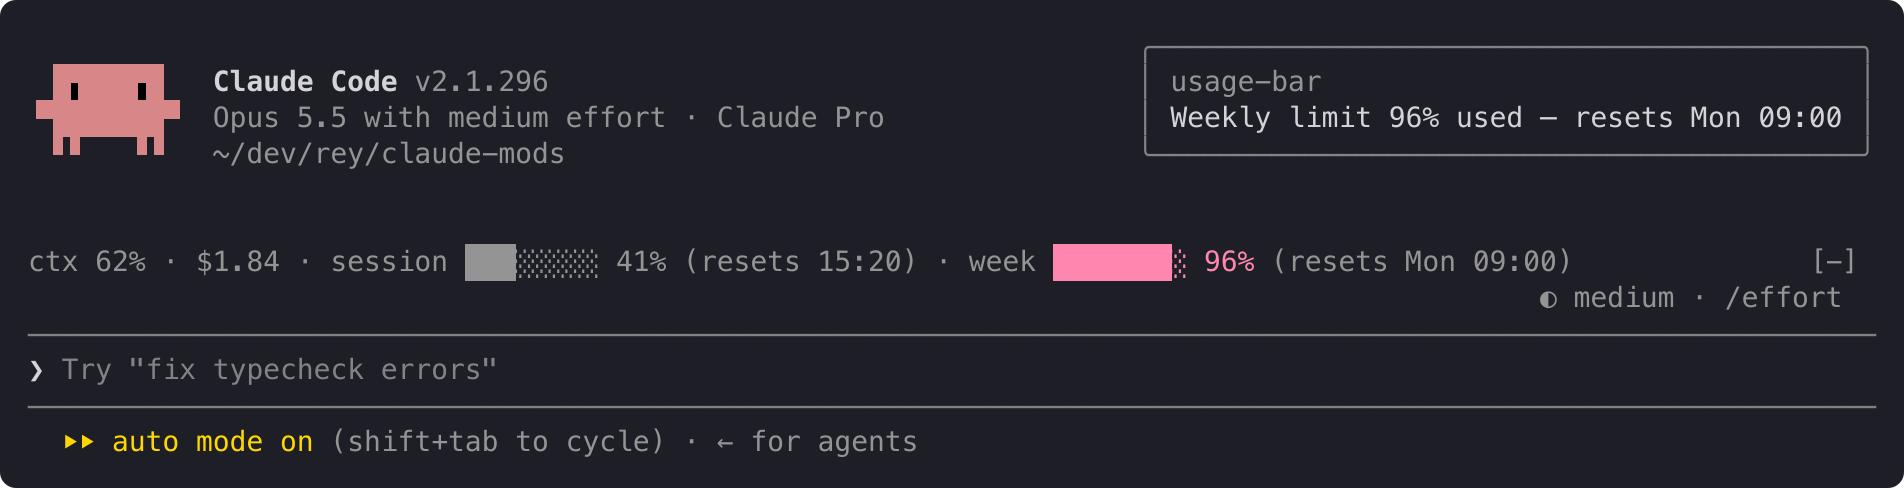
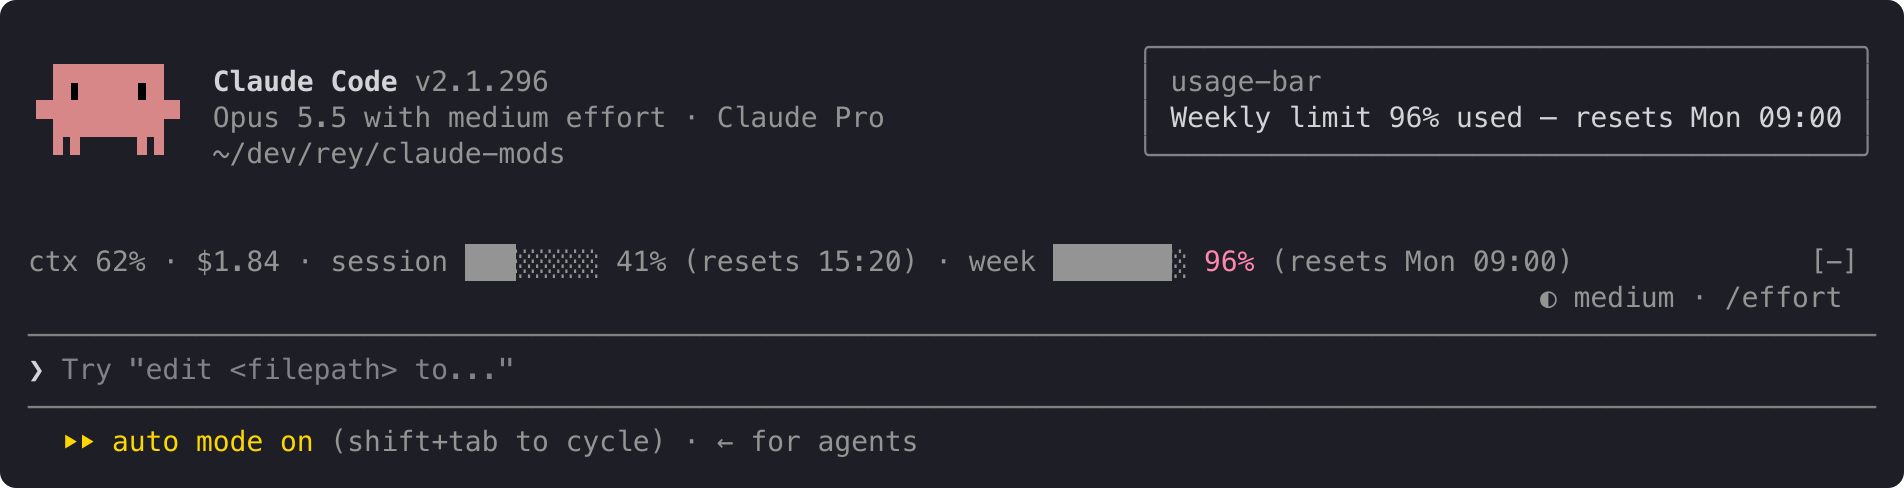
feat(usage-bar): colour the percent, not the bar
Full colour across a bar distracts; a dimmed colour renders grey in
Claude Code, and hex shades ignore the theme. Bars stay dimmed.

Changed region(s): [[0.062, 0.7377, 0.2789, 0.7992], [0.5268, 0.4918, 0.6197, 0.584]]

diff --git a/plugins/usage-bar/tests/usage-bar.test.ts b/plugins/usage-bar/tests/usage-bar.test.ts
@@ -65,11 +65,15 @@ async function mountLine($: Engine, surface: (typeof SURFACES)[number], bodyColu
 const lineText = async ($: Engine, surface: (typeof SURFACES)[number], bodyColumns?: number) =>
   (await mountLine($, surface, bodyColumns)).line
 
-// The color of the Text that shows this percent.
-async function percentColor($: Engine, surface: (typeof SURFACES)[number], percent: string) {
+// The colors of the Text that shows this percent and of the Text that shows its bar; 'missing' when no Text shows a bar.
+async function limitColors($: Engine, surface: (typeof SURFACES)[number], percent: string) {
   const { texts } = await mountLine($, surface)
+  const bar = texts.find(t => /[█░]/.test(t.text))
 
-  return texts.find(t => t.text.endsWith(` ${percent}`))?.props.color
+  return {
+    percent: texts.find(t => t.text === percent)?.props.color,
+    bar: bar ? bar.props.color : 'missing',
+  }
 }
 
 describe('line', () => {
@@ -178,14 +182,14 @@ describe('line', () => {
     }
   })
 
-  test('colorsBarAndPercent_warningFrom50AndErrorFrom95', async ($, on) => {
+  test('colorsPercentOnly_warningFrom50AndErrorFrom95', async ($, on) => {
     mock.store(on)
     recordToasts(on)
 
     for (const [percent, color] of [[49.9, undefined], [50, 'warning'], [94, 'warning'], [95, 'error']] as const) {
       await measure($, [week(percent)])
       for (const surface of SURFACES) {
-        expect(await percentColor($, surface, `${Math.floor(percent)}%`)).toBe(color)
+        expect(await limitColors($, surface, `${Math.floor(percent)}%`)).toEqual({ percent: color, bar: undefined })
       }
     }
   })

diff --git a/plugins/usage-bar/hooks/register.tsx b/plugins/usage-bar/hooks/register.tsx
@@ -25,7 +25,7 @@ const LAYOUTS: [minColumns: number, layout: Layout][] = [
 
 const BAR_CELLS = 8
 
-// A run of the line; a colored one shows a window's bar and percent.
+// A run of the line; a colored one shows a window's percent.
 type Segment = { text: string; color?: 'warning' | 'error' }
 
 // What $.store holds per window kind: the period's resetsAt and the thresholds already toasted in it.
@@ -55,11 +55,11 @@ function windowSegments(limit: LimitReading, layout: Layout): Segment[] | undefi
 
   const label = layout === 'full' ? window.label : window.letter
   const percent = `${Math.floor(limit.percentUsed)}%`
-  const shown = layout === 'full' || layout === 'short-bars' ? `${bar(limit.percentUsed)} ${percent}` : percent
+  const barText = layout === 'full' || layout === 'short-bars' ? `${bar(limit.percentUsed)} ` : ''
   const time = limit.resetsAt && layout !== 'tiny' ? resetTime(limit.resetsAt, window.showsDay) : undefined
   const resets = time === undefined ? '' : layout === 'full' ? ` (resets ${time})` : ` ↻ ${time}`
 
-  return [{ text: `${label} ` }, { text: shown, color: levelColor(limit.percentUsed) }, { text: resets }]
+  return [{ text: `${label} ${barText}` }, { text: percent, color: levelColor(limit.percentUsed) }, { text: resets }]
 }
 
 function lineSegments(r: Reading, columns: number): Segment[] {

diff --git a/docs/usage-bar.md b/docs/usage-bar.md
@@ -16,7 +16,7 @@ One line above the prompt with the session's context fill and cost, plus the pla
    - Until the first reading, show `usage: no data yet`, dimmed, so the line doesn't look missing. Not logged in, no reading comes, so it stays until `/login`.
    - Off a subscription (an API key), readings carry no limits: show `ctx` and `$` only.
    - Each window's bar has 8 cells, each 12.5%, filled rounded down.
-   - Each window's bar and percent are coloured by the theme: `warning` from 50%, `error` from 95%, matching the toasts. The rest is dimmed.
+   - Each window's percent is coloured by the theme: `warning` from 50%, `error` from 95%, matching the toasts. The rest, bars included, is dimmed: full colour on a bar distracts.
    - The layout follows the line's available width (`bodyColumns`); each width's maximum length assumes `100%` in both windows and a cost like `$123.45`:
 
      | Width | Line | Max |
@@ -79,4 +79,4 @@ Use `claude plugin test`. Cover at least:
 7. The startup reading, limits but no context fill yet, shows `ctx – · $0.00` and both limits.
 8. Empty `rateLimits` never toast.
 9. Each width picks its layout at the 100, 76 and 56 column breakpoints, and the widest line fits its width.
-10. Bars fill rounded down, and colour turns `warning` at 50% and `error` at 95%.
+10. Bars fill rounded down and stay dimmed; the percent turns `warning` at 50% and `error` at 95%.

diff --git a/plugins/usage-bar/README.md b/plugins/usage-bar/README.md
@@ -10,7 +10,7 @@ Your plan's usage limits, context and cost on one dimmed line above the prompt, 
 
 ## Alerts
 
-A limit's bar and percent turn yellow at 50% and red at 95%. An alert appears at the top right at 50%, 80% and 95%:
+A limit's percent turns yellow at 50% and red at 95%; the bars stay grey. An alert appears at the top right at 50%, 80% and 95%:
 
 ![The session limit at 55% in yellow, with the alert "Session limit 55% used — resets 15:20"](images/yellow.png)
 
